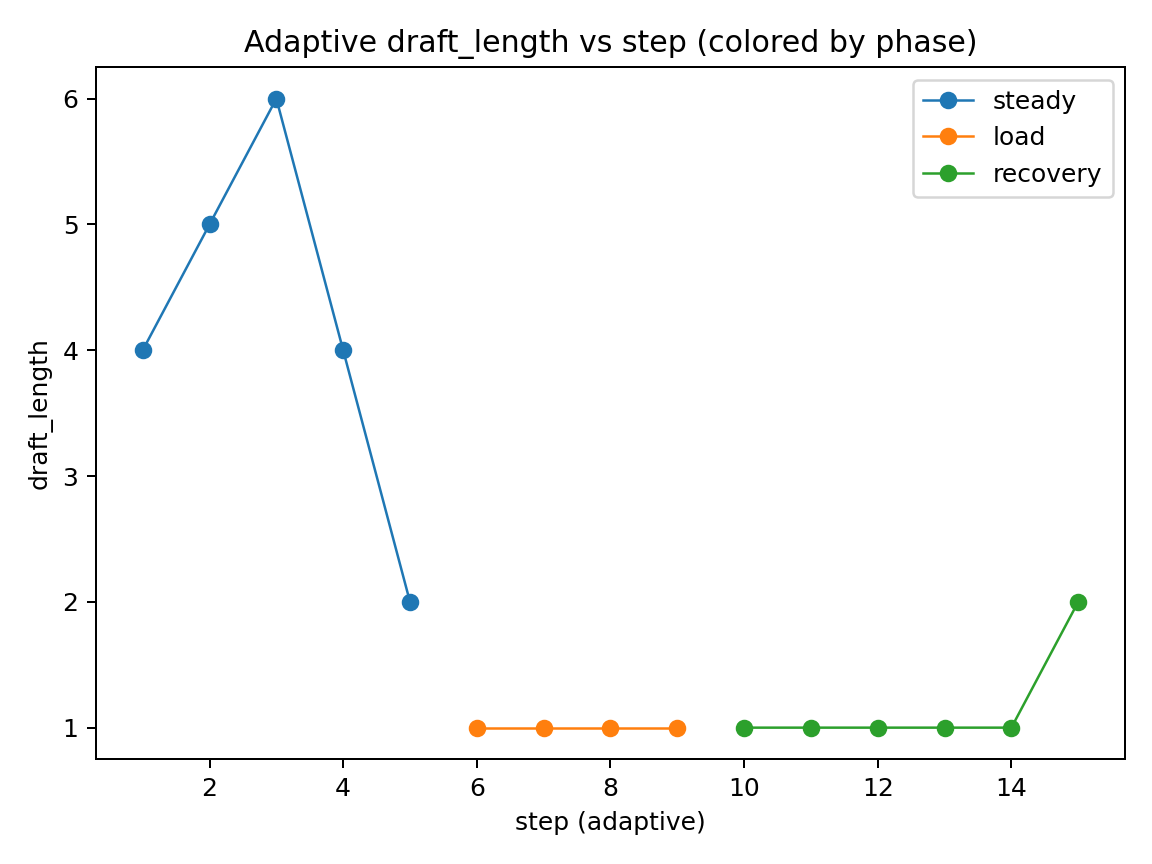
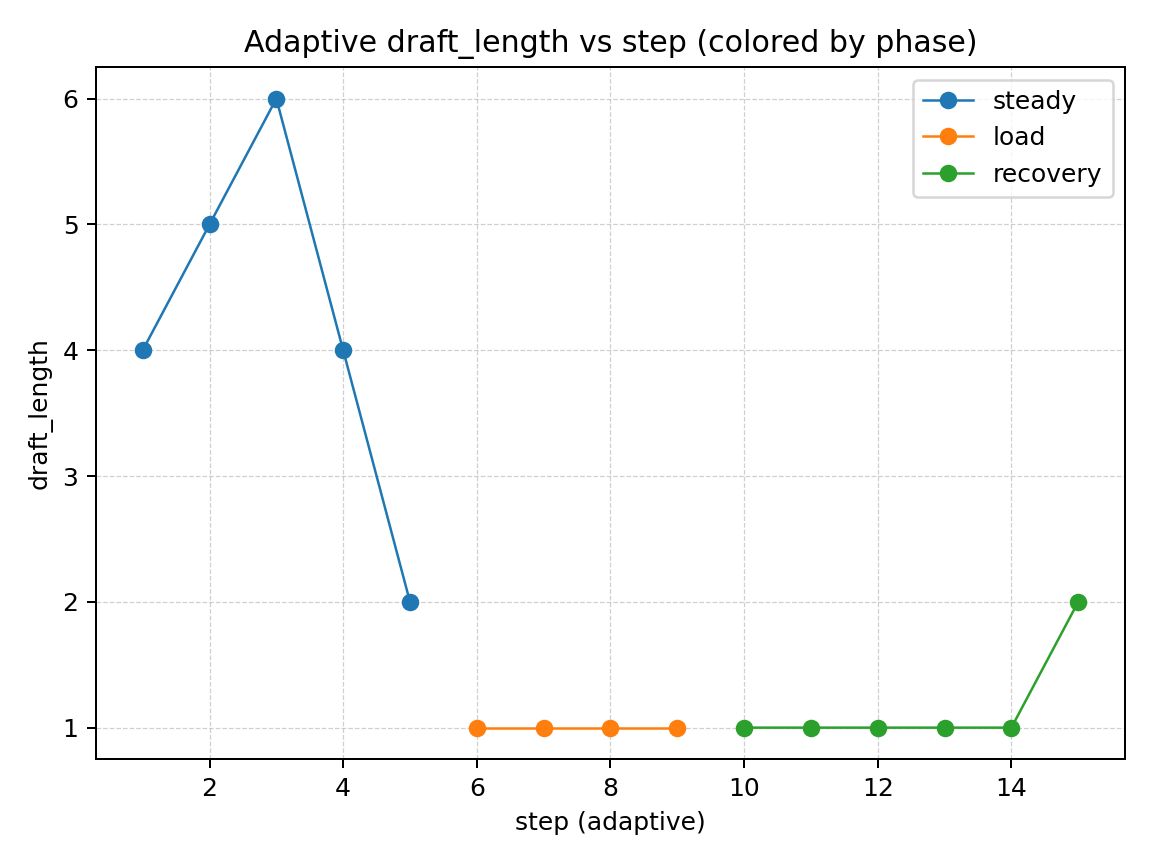
Add phase0 results and update plotting/docs
Add results_phase0.csv with load-injection experiment data and regenerate graph images. Update README to include an "Experimental Results (Load Injection)" section with embedded plots and key takeaways. Improve analysis/plot.py by enabling grid lines across several figures and adjust the boxplot call to use tick_labels for correct labels. Append Phase 2 run summary to notes/phase1_runs.md and remove the hardcoded CSV_PATH constant from src/main.rs.

diff --git a/analysis/plot.py b/analysis/plot.py
@@ -37,6 +37,7 @@ def main():
     ad = ok[ok["mode"] == "adaptive"].sort_values("step")
     if not ad.empty:
         plt.figure()
+        plt.grid(True, linestyle="--", linewidth=0.5, alpha=0.6)
         for phase_name, grp in ad.groupby("phase", sort=False):
             plt.plot(grp["step"], grp["latency_ms"], marker="o", linewidth=1, label=phase_name)
         plt.xlabel("step (adaptive)")
@@ -49,6 +50,7 @@ def main():
         # 2) Adaptive draft_length vs step (phase-colored)
         # ----------------------------
         plt.figure()
+        plt.grid(True, linestyle="--", linewidth=0.5, alpha=0.6)
         for phase_name, grp in ad.groupby("phase", sort=False):
             plt.plot(grp["step"], grp["draft_length"], marker="o", linewidth=1, label=phase_name)
         plt.xlabel("step (adaptive)")
@@ -65,7 +67,8 @@ def main():
         labels = [p for p in phases if p in ad["phase"].unique()]
         if len(data) >= 1:
             plt.figure()
-            plt.boxplot(data, labels=labels, showfliers=False)
+            plt.grid(True, linestyle="--", linewidth=0.5, alpha=0.6)
+            plt.boxplot(data, tick_labels=labels, showfliers=False)
             plt.xlabel("phase")
             plt.ylabel("latency (ms)")
             plt.title("Adaptive latency distribution by phase")
@@ -84,6 +87,7 @@ def main():
         p95_lat = g.quantile(0.95).sort_index()
 
         plt.figure()
+        plt.grid(True, linestyle="--", linewidth=0.5, alpha=0.6)
         plt.bar(avg_lat.index, avg_lat.values)
         plt.xticks(rotation=45, ha="right")
         plt.xlabel("mode")
@@ -92,6 +96,7 @@ def main():
         savefig("fixed_avg_latency.png")
 
         plt.figure()
+        plt.grid(True, linestyle="--", linewidth=0.5, alpha=0.6)
         plt.bar(p95_lat.index, p95_lat.values)
         plt.xticks(rotation=45, ha="right")
         plt.xlabel("mode")
@@ -123,6 +128,7 @@ def main():
     if scores:
         s = pd.Series(scores).sort_index()
         plt.figure()
+        plt.grid(True, linestyle="--", linewidth=0.5, alpha=0.6)
         plt.bar(s.index, s.values)
         plt.xticks(rotation=45, ha="right")
         plt.xlabel("mode")

diff --git a/src/main.rs b/src/main.rs
@@ -6,7 +6,6 @@ use std::sync::Arc;
 use std::sync::atomic::{AtomicBool, Ordering};
 use std::thread::sleep;
 use std::time::{Duration, Instant};
-const CSV_PATH: &str = "results_phase0.csv";
 const WARMUP_STEPS: usize = 5; // per mode, not logged, not counted
 
 #[derive(Clone)]

diff --git a/README.md b/README.md
@@ -49,3 +49,37 @@ HALOSPEC_LOAD=1 cargo run
 # Optional verbose JSON
 HALOSPEC_DEBUG_JSON=1 cargo run
 ```
+
+## Experimental Results (Load Injection)
+
+These plots are generated from `results_phase0.csv` with `HALOSPEC_LOAD=1`, where CPU contention is injected starting at measured step 6 for ~30s. Phases are logged as `steady`, `load`, and `recovery`.
+
+### Adaptive latency vs step (phase-colored)
+
+![Adaptive latency vs step](docs/graphs/adaptive_latency_by_step.png)
+
+### Adaptive draft_length vs step (phase-colored)
+
+![Adaptive draft_length vs step](docs/graphs/adaptive_draft_length_by_step.png)
+
+### Adaptive latency distribution by phase
+
+![Adaptive latency by phase](docs/graphs/adaptive_latency_by_phase_boxplot.png)
+
+### Fixed modes: average latency
+
+![Fixed avg latency](docs/graphs/fixed_avg_latency.png)
+
+### Fixed modes: p95 latency
+
+![Fixed p95 latency](docs/graphs/fixed_p95_latency.png)
+
+### SLO-aware score by mode
+
+![SLO-aware score](docs/graphs/score_by_mode.png)
+
+## Key Takeaways
+
+- Load injection produces a measurable latency elevation during the `load` phase followed by stabilization in `recovery`.
+- The adaptive controller remains stable (bounded draft_length changes) and converges after the perturbation window.
+- Fixed draft_length modes can outperform adaptive in some runs; the project frames this as a non-stationary tuning problem under runtime variability.

diff --git a/notes/phase1_runs.md b/notes/phase1_runs.md
@@ -130,3 +130,24 @@ adaptive 15 100.0% 0 3489.1 ms 3451 ms 3813 ms 3393 ms 3813 ms 114.9 ms 18.3 tok
 [Adaptive Behavior] draft_length changes=2 | converged_at_step=7 (k=5)
 
 Winner (lowest SLO-aware score): fixed_8 at 5113.8
+
+Phase 2 RUN:
+
+==============================
+HaloSpec Benchmark Summary
+==============================
+
+mode steps s% fail avg median p95 min max stddev throughput score
+fixed_1 10 100.0% 0 4156.9 ms 4007 ms 4945 ms 3853 ms 4945 ms 325.8 ms 15.4 tok/s 6694.6
+fixed_2 10 100.0% 0 4174.5 ms 4186 ms 4685 ms 3699 ms 4685 ms 295.5 ms 15.3 tok/s 6576.1
+fixed_3 10 100.0% 0 4084.6 ms 3923 ms 4746 ms 3700 ms 4746 ms 329.6 ms 15.7 tok/s 6523.5
+fixed_4 10 100.0% 0 3803.9 ms 3808 ms 4395 ms 3370 ms 4395 ms 318.3 ms 16.8 tok/s 6065.1
+fixed_5 10 100.0% 0 4206.8 ms 4229 ms 4601 ms 3704 ms 4601 ms 246.6 ms 15.2 tok/s 6556.6
+fixed_6 10 100.0% 0 3834.8 ms 3727 ms 4452 ms 3670 ms 4452 ms 217.4 ms 16.7 tok/s 6104.3
+fixed_7 10 100.0% 0 4908.9 ms 4213 ms 7724 ms 3814 ms 7724 ms 1212.0 ms 13.0 tok/s 9013.3
+fixed_8 10 100.0% 0 4433.5 ms 4118 ms 6155 ms 3710 ms 6155 ms 677.1 ms 14.4 tok/s 7646.4
+adaptive 15 100.0% 0 4436.0 ms 4418 ms 5740 ms 3555 ms 5740 ms 751.4 ms 14.4 tok/s 7456.3
+
+[Adaptive Behavior] draft_length changes=6 | converged_at_step=10 (k=5)
+
+Winner (lowest SLO-aware score): fixed_4 at 6065.1
